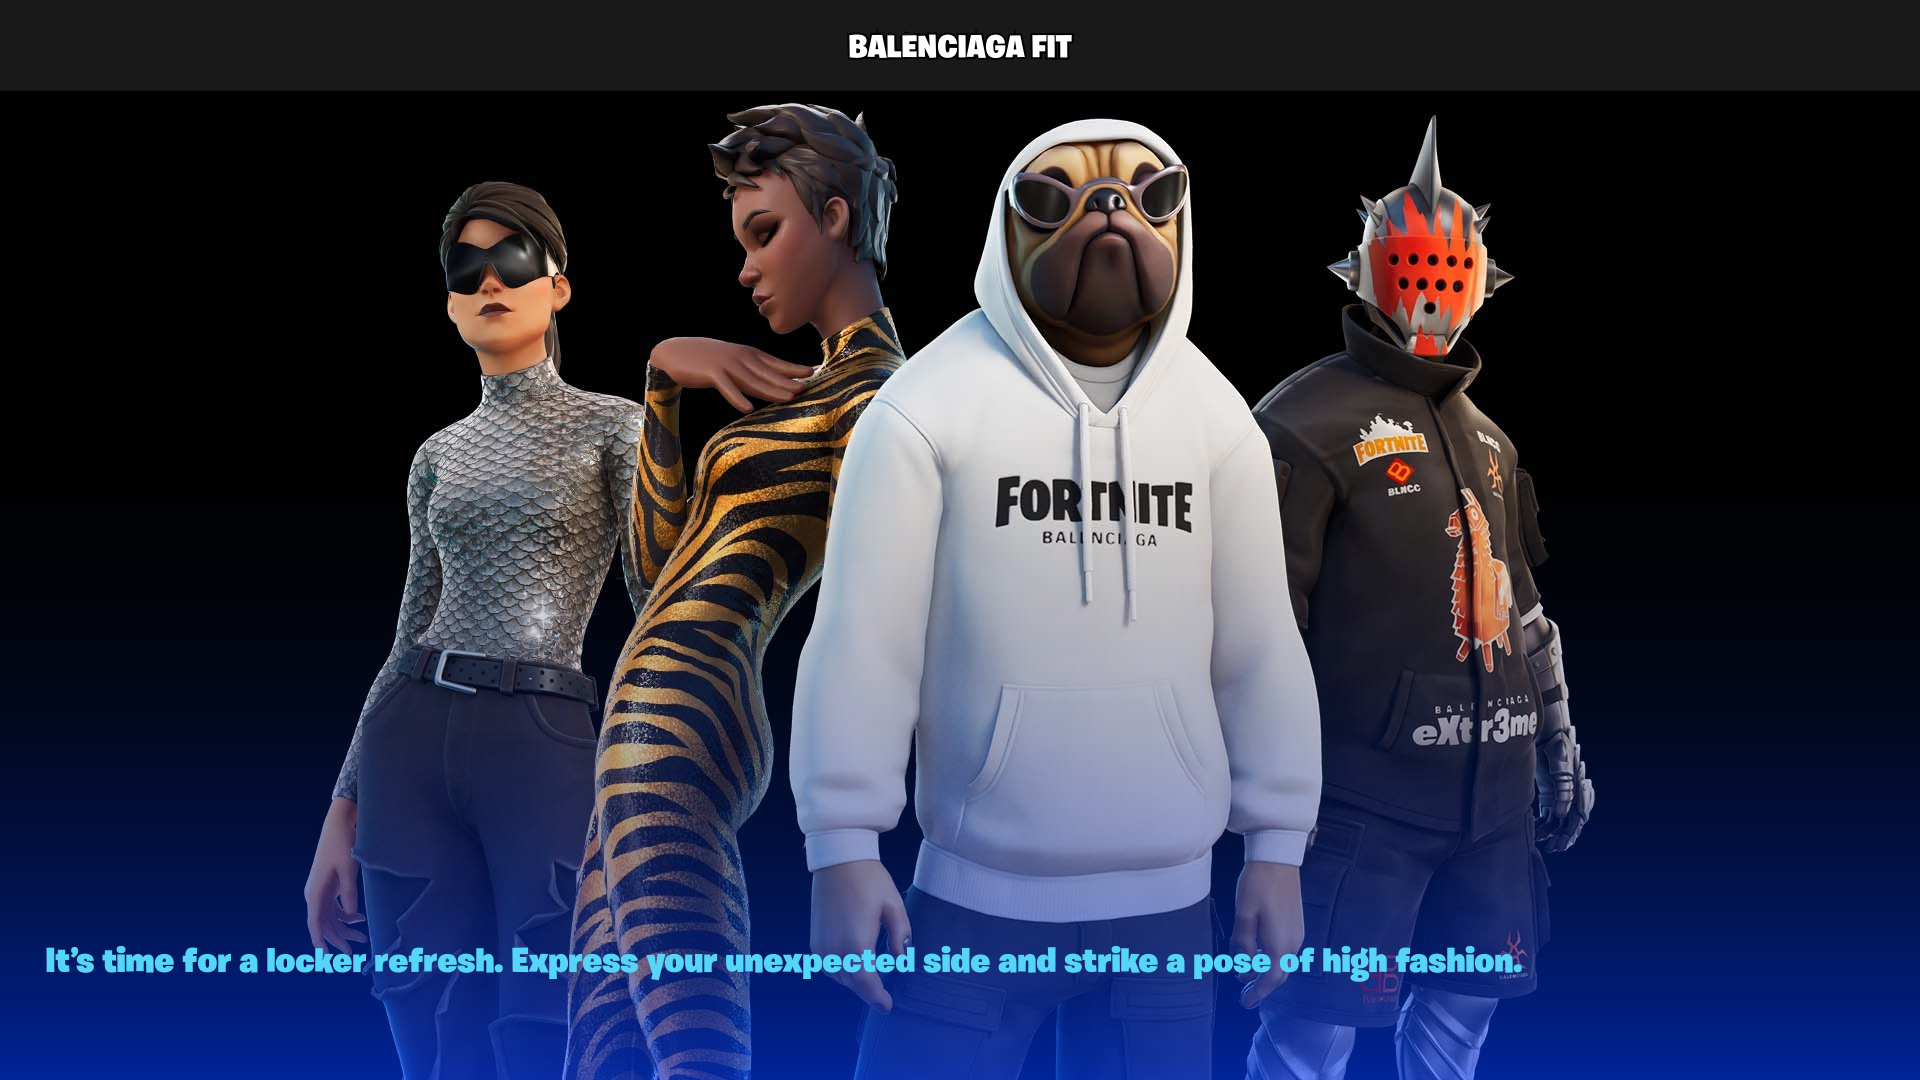
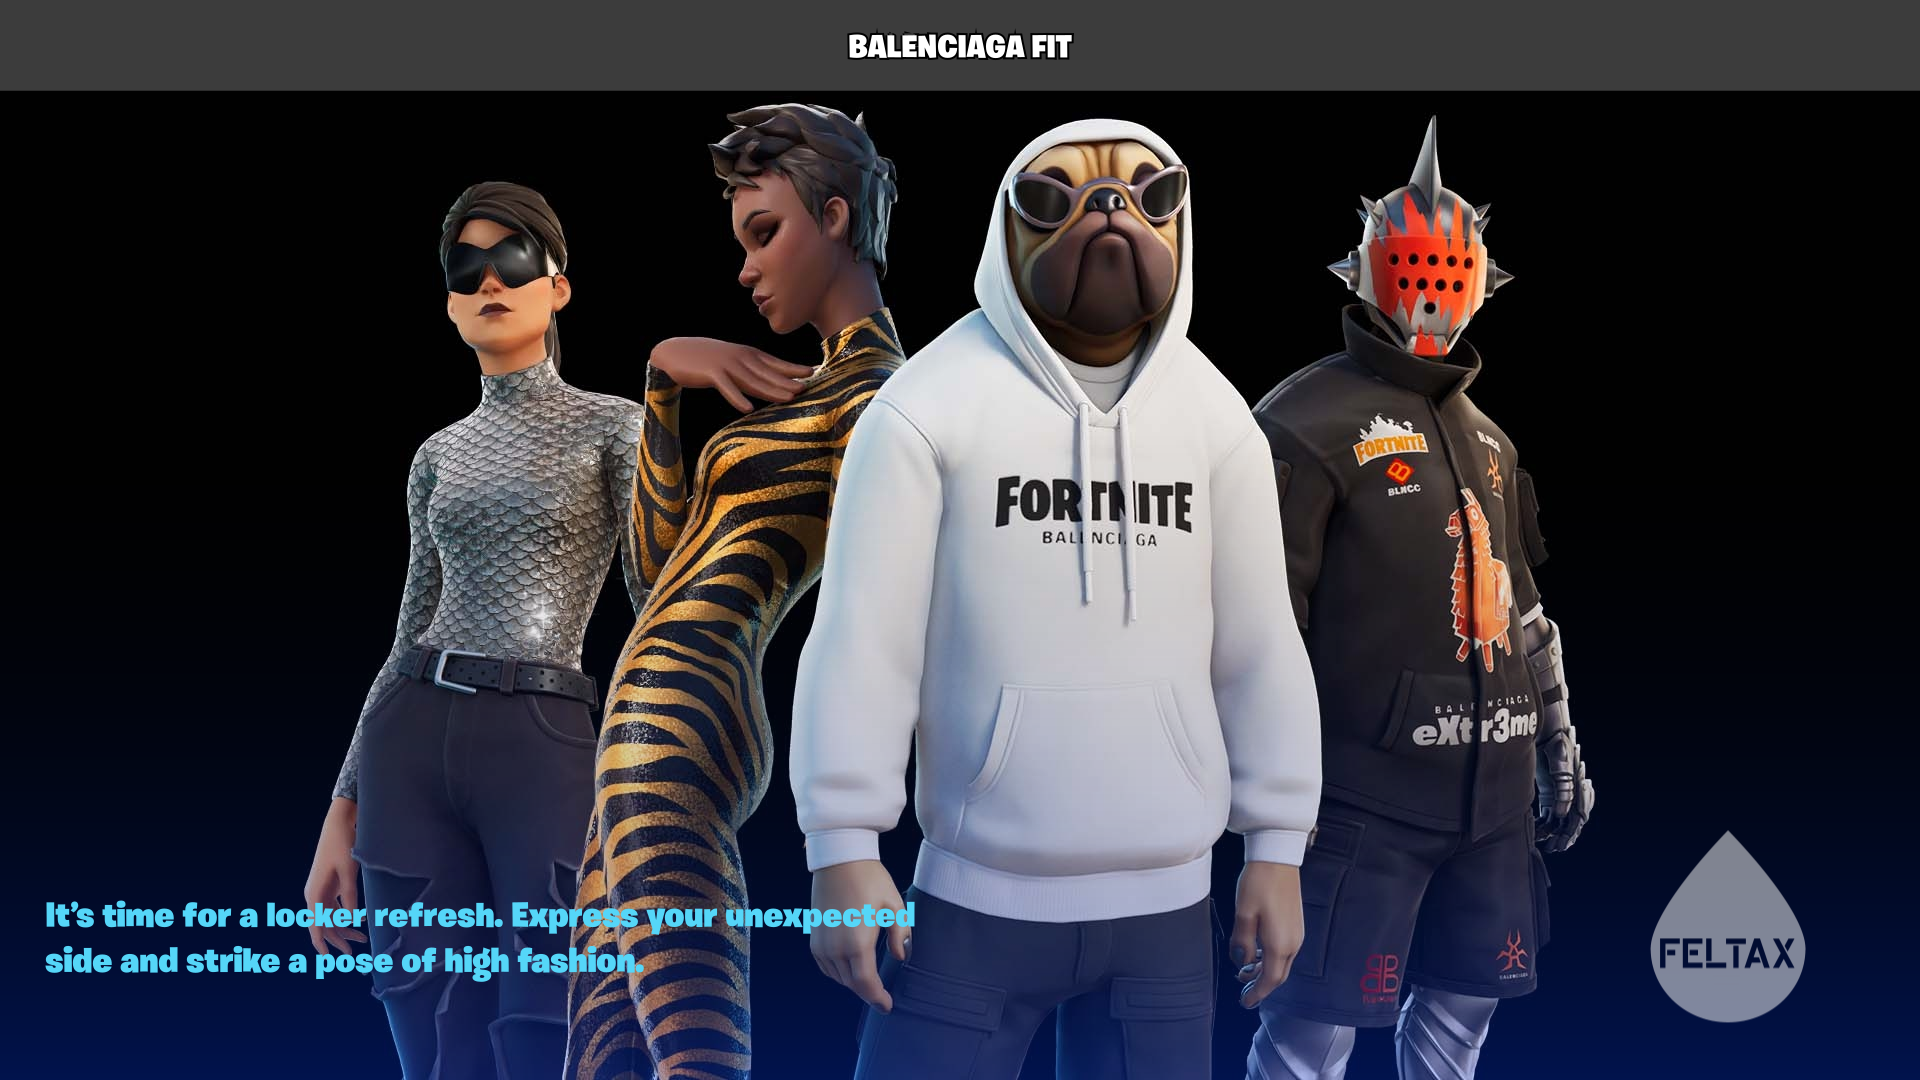
some changes

diff --git a/src/command/news.js b/src/command/news.js
@@ -42,9 +42,9 @@ exports.run = async (client, message, args, FortniteAPIComClient, FortniteAPIIoC
         const baseWidth = 1920;
         const baseHeight = 1080;
         for(var i=0;i<newsData.data.data.motds.length;i++){
+        //Global constants.
             const canvas = createCanvas(baseWidth, baseHeight);
             const ctx = canvas.getContext('2d');
-        //Global constants.
             var beforeFinish = Date.now();
         //Function code.
             //Image
@@ -52,7 +52,7 @@ exports.run = async (client, message, args, FortniteAPIComClient, FortniteAPIIoC
             ctx.drawImage(img, 0, 0, baseWidth, baseHeight);
             //Tab Rectangle
             var tabHeight = (8.4/100)*baseHeight;
-            ctx.fillStyle = 'rgba(43,43,43,0.6)';
+            ctx.fillStyle = 'rgba(100,100,100,0.6)';
             ctx.fillRect(0, 0, baseWidth, tabHeight);
             //Title
             var title = newsData.data.data.motds[i].title.toUpperCase();
@@ -66,16 +66,35 @@ exports.run = async (client, message, args, FortniteAPIComClient, FortniteAPIIoC
             //Bottom Gradient
             var gradient = ctx.createLinearGradient(baseWidth/2, 0, baseWidth/2, baseHeight);
             gradient.addColorStop(0.4, 'rgba(0,0,0,0)');
-            gradient.addColorStop(1, 'rgba(0,60,255,0.6)');
+            gradient.addColorStop(1, 'rgba(0,60,255,0.3)');
             ctx.fillStyle = gradient;
             ctx.fillRect(0, 0, baseWidth, baseHeight)
             // Body
             var body = newsData.data.data.motds[i].body;
             var bodyFontSize = (tabHeight/2.6).toFixed();
-            var body = newsData.data.data.motds[i].body;
+            async function splitStringIntoLines(str){
+                var x = str;
+                var lines = [];
+                while(x.length!==0){
+                    var y = x.replace(/^(.{50}[^\s]*).*/, "$1");
+                    var x = x.replace(y,'').slice(1,x.length)
+                    lines.push(y)
+                }
+                return lines.reverse()
+            }
+            var lines = await splitStringIntoLines(body);
             ctx.fillStyle = '#55D6F8';
             ctx.font = `${bodyFontSize}px "Burbank Big Rg Bk"`;
-            ctx.fillText(body, tabHeight/2, (90/100)*baseHeight)
+            async function drawBody(lines){
+                for(var i=0;i<lines.length;i++){
+                    ctx.fillText(lines[i], tabHeight/2, (90/100)*baseHeight-(tabHeight/2)*i)
+                }
+            }
+            await drawBody(lines)
+        //Watermark
+            ctx.globalAlpha = 0.5;
+            var watermark = await loadImage('watermark.png');
+            ctx.drawImage(watermark, baseWidth-(15/100)*baseWidth, baseHeight-(13/100)*baseWidth, (10/100)*baseWidth, (10/100)*baseWidth);
         //Other
             console.log(`Rendered "${title}" | ${newsData.data.data.motds[i].id} in ${(Date.now()-beforeFinish)/1000}s`)
             const attach = new Discord.MessageAttachment(canvas.toBuffer(), `${newsData.data.data.motds[i].id}.webp`)
@@ -84,6 +103,7 @@ exports.run = async (client, message, args, FortniteAPIComClient, FortniteAPIIoC
         }
         return splitNews;
     }
-    await generateSplitNews(args[0],args[1])
     await generateFullNews(args[0],args[1])
+    var splitImgs = await generateSplitNews(args[0],args[1])
+    splitImgs.map(img => message.channel.send({files: [img]}))
 };
